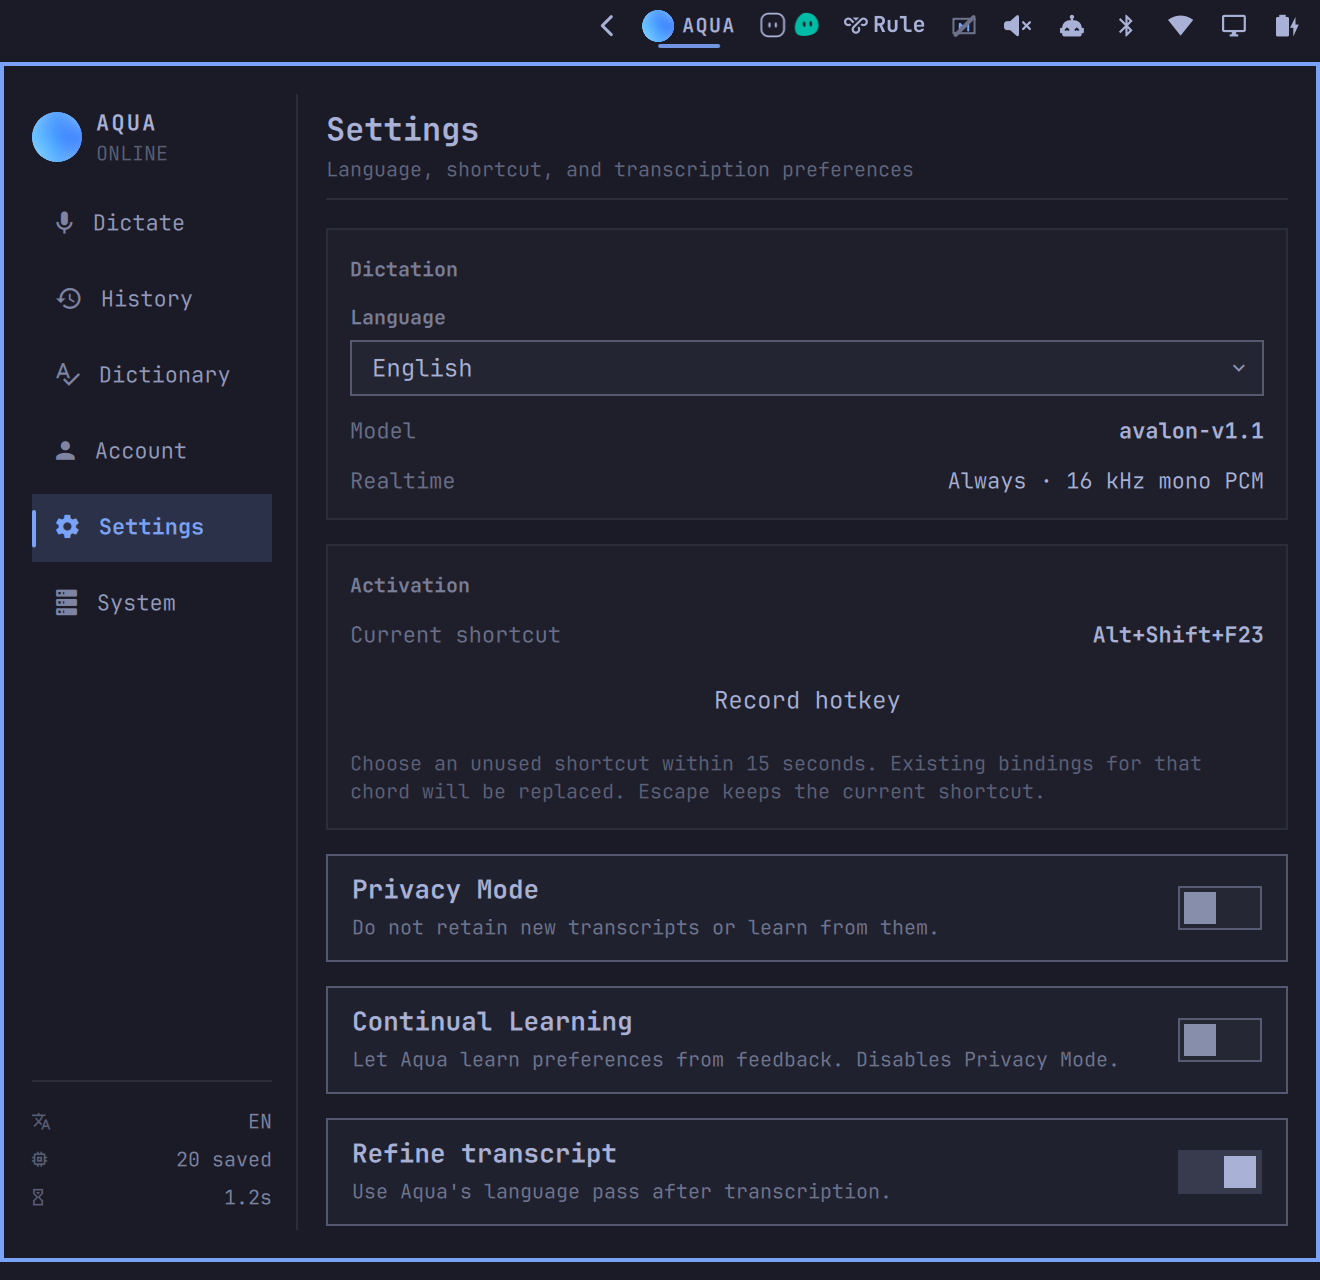
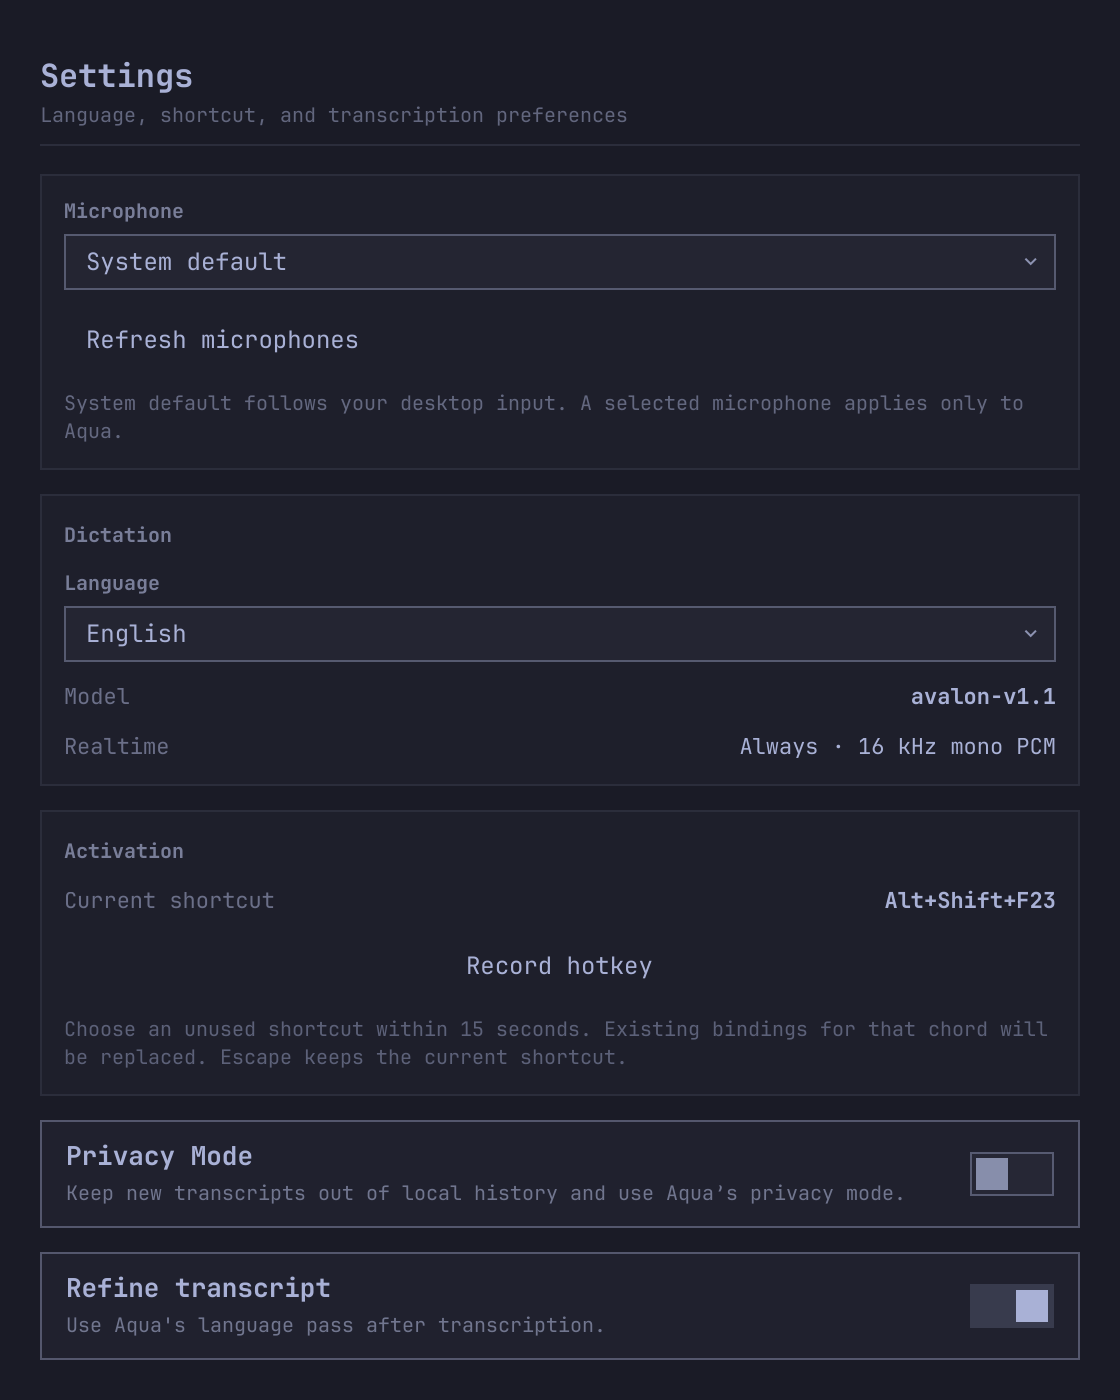
Align QML status feedback and settings preview with current Aqua behavior

diff --git a/Panel.qml b/Panel.qml
@@ -35,6 +35,8 @@ Panel {
     if (!online) return "Backend stopped"
     if (phase === "armed") return "Tap again"
     if (recording) return "Listening"
+    if (processing && svc && svc.stage === "recovering") return "Recovering dictation"
+    if (processing && svc && svc.stage === "waiting-ready") return "Connecting to Aqua"
     if (processing) return "Transcribing · " + Math.floor((svc ? svc.processingMs : 0) / 1000) + "s"
     if (complete) return svc && svc.completion ? svc.completion : "Complete"
     if (phase === "error") return "Needs attention"
@@ -46,8 +48,11 @@ Panel {
     if (!online) return "Start Aqua to enable realtime dictation"
     if (phase === "armed") return "Second tap starts hands-free dictation"
     if (recording && svc && svc.stage === "recording-for-recovery") return "Connection unavailable · audio will upload when you finish"
+    if (recording && svc && (svc.stage === "connecting" || svc.stage === "waiting-ready")) return "Microphone is recording · connecting to Aqua"
     if (recording) return svc && svc.liveText ? svc.liveText : "Tap once when you are done"
-    if (processing) return svc && svc.stage ? String(svc.stage).replace(/-/g, " ") : "Waiting for Aqua"
+    if (processing && svc && svc.stage === "recovering") return "Retrieving your transcript · you can still cancel"
+    if (processing && svc && svc.stage === "waiting-ready") return "Waiting for the connection before sending the remaining audio"
+    if (processing) return "Finishing your transcript"
     if (complete) return svc && svc.completion !== "No text returned" && svc.completion !== "Too short" ? svc.latestTranscript : ""
     if (phase === "error") return svc ? svc.lastError : "Unknown error"
     if (!svc || !svc.tokenPresent) return "Open Account to sign in to Aqua Voice"
@@ -120,6 +125,20 @@ Panel {
     }
   }
   Timer { id: refreshDelay; interval: 120; onTriggered: if (root.svc) root.svc.refresh() }
+
+  function refreshMicrophoneList() {
+    if (root.opened && root.page === "settings" && root.online && !microphoneProbe.running)
+      microphoneProbe.running = true
+  }
+  onOpenedChanged: refreshMicrophoneList()
+  onPageChanged: refreshMicrophoneList()
+  Process {
+    id: microphoneProbe
+    command: [root.control, "trigger", "microphones"]
+    stdout: StdioCollector {}
+    stderr: StdioCollector {}
+    onExited: if (root.svc) refreshDelay.restart()
+  }
 
   // Only the open Dictionary page probes the account revision; this is not
   // part of the one-second local status refresh.
@@ -263,7 +282,7 @@ Panel {
               anchors.verticalCenter: parent.verticalCenter
               spacing: Style.space(1)
               Text { width: parent.width; text: "AQUA"; color: root.fg; font.family: root.fontFamily; font.pixelSize: Style.font.bodySmall; font.bold: true; font.letterSpacing: 1.1; elide: Text.ElideRight }
-              Text { width: parent.width; text: root.online ? "ONLINE" : "OFFLINE"; color: Util.alpha(root.fg, 0.45); font.family: root.fontFamily; font.pixelSize: Style.font.caption }
+              Text { width: parent.width; text: !root.online ? "STOPPED" : root.recording ? "RECORDING" : root.processing ? "PROCESSING" : root.svc && root.svc.tokenPresent ? "READY" : "SIGN IN"; color: Util.alpha(root.fg, 0.45); font.family: root.fontFamily; font.pixelSize: Style.font.caption }
             }
           }
           NavButton { width: parent.width; pageId: "dictate"; glyph: ""; title: "Dictate" }

diff --git a/AquaSystemPage.qml b/AquaSystemPage.qml
@@ -53,7 +53,7 @@ Item {
         AquaInfoRow { width: parent.width; label: "Backend"; value: root.online ? "Running" : "Stopped"; valueColor: root.online ? Color.accent : Color.urgent; foreground: root.foreground; fontFamily: root.fontFamily; valueBold: true }
         AquaInfoRow { width: parent.width; label: "Aqua account"; value: root.svc && root.svc.tokenPresent ? "Token available" : "Sign-in needed"; valueColor: root.svc && root.svc.tokenPresent ? Color.accent : Color.urgent; foreground: root.foreground; fontFamily: root.fontFamily }
         AquaInfoRow { width: parent.width; label: "Physical hotkey"; value: root.svc && root.svc.hotkeyReady ? "Ready" : (root.online ? "Unavailable" : "Backend stopped"); foreground: root.foreground; fontFamily: root.fontFamily }
-        AquaInfoRow { width: parent.width; label: "WebSocket"; value: root.svc && root.svc.websocketConnected ? (root.svc.recording ? "Connected · recording" : "Connected · finalizing") : "Disconnected"; foreground: root.foreground; fontFamily: root.fontFamily }
+        AquaInfoRow { width: parent.width; label: "WebSocket"; value: root.svc && root.svc.stage === "recovering" ? "Recovering transcript" : root.svc && root.svc.websocketConnected ? (root.svc.stage === "waiting-ready" ? "Connected · preparing" : root.svc.recording ? "Connected · recording" : "Connected · finalizing") : root.svc && (root.svc.recording || root.svc.processing) ? "Not connected" : "On demand"; foreground: root.foreground; fontFamily: root.fontFamily }
       }
 
       AquaCard {

diff --git a/AquaSettingsPage.qml b/AquaSettingsPage.qml
@@ -59,7 +59,7 @@ Item {
           label: "Microphone"
           value: root.svc ? root.svc.microphoneTarget : ""
           options: {
-            var devices = root.svc ? root.svc.microphones.slice() : []
+            var devices = root.svc && root.svc.microphones.length ? root.svc.microphones.slice() : [{value: "", label: "System default"}]
             if (root.svc && root.svc.microphoneTarget && !devices.some(function(d) { return d.value === root.svc.microphoneTarget }))
               devices.push({value: root.svc.microphoneTarget, label: "Selected microphone unavailable"})
             return devices
@@ -132,7 +132,7 @@ Item {
       Toggle {
         width: parent.width
         label: "Privacy Mode"
-        description: "Do not retain new transcripts or learn from them."
+        description: "Keep new transcripts out of local history and use Aqua’s privacy mode."
         foreground: root.foreground
         accent: Color.accent
         fontFamily: root.fontFamily

diff --git a/Overlay.qml b/Overlay.qml
@@ -76,10 +76,11 @@ Item {
 
         Text {
           anchors.verticalCenter: parent.verticalCenter
-          text: root.recording ? "Recording"
+          text: root.recording ? (service.stage === "recording-for-recovery" ? "Recording · buffered" : "Recording")
             : (service && service.phase === "complete" ? service.completion
               : (service && service.phase === "error" ? "Dictation failed"
-                : (service && String(service.stage).indexOf("retry") >= 0 ? "Retrying Aqua…"
+                : (service && service.stage === "recovering" ? "Recovering…"
+                  : service && service.stage === "waiting-ready" ? "Connecting…"
                   : "Transcribing · " + Math.floor((service ? service.processingMs : 0) / 1000) + "s")))
           color: service && service.phase === "error" ? Color.urgent : Color.popups.text
           font.family: Style.font.family

diff --git a/AquaHomePage.qml b/AquaHomePage.qml
@@ -126,7 +126,7 @@ Item {
           spacing: Style.space(8)
           Button {
             width: root.recording || root.processing ? (parent.width - parent.spacing) * 0.68 : parent.width
-            text: root.svc && root.svc.setupRequired ? "Install and enable" : !root.online ? "Start backend" : (root.recording ? "Finish dictation" : "Start dictation")
+            text: root.svc && root.svc.setupRequired ? "Install and enable" : !root.online ? "Start backend" : root.processing ? (root.svc.stage === "recovering" ? "Recovering…" : root.svc.stage === "waiting-ready" ? "Connecting…" : "Transcribing…") : (root.recording ? "Finish dictation" : "Start dictation")
             enabled: !root.processing && (!root.online || root.recording || (root.svc && root.svc.tokenPresent))
             onClicked: {
               if (root.svc && root.svc.setupRequired) {

diff --git a/AQUA_UI.md b/AQUA_UI.md
@@ -51,3 +51,7 @@ Source: `/home/frankmi/aqua-voice-linux/asar-extracted/.webpack/main/index.js` a
 ## Design reference
 
 The control center follows the installed `io.github.lijiawei0305-pixel.mihomo` plugin: a fixed-size panel, persistent left navigation rail, one scrollable page on the right, native Omarchy controls, stable geometry across page changes, and numeric keyboard shortcuts.
+
+## 0.20.16 UI alignment
+
+The Omarchy interface keeps its native layout and the user's preferred decorative recording animation. Retired Continual Learning controls are absent; microphone selection uses real PipeWire inputs and refreshes when Settings opens. Connecting, transcribing, recovering, and buffered recording have distinct user-facing labels. Backend readiness is not labeled as Internet connectivity. Native macOS Liquid Glass, pets, and desktop-only features are not copied into unsupported controls.
